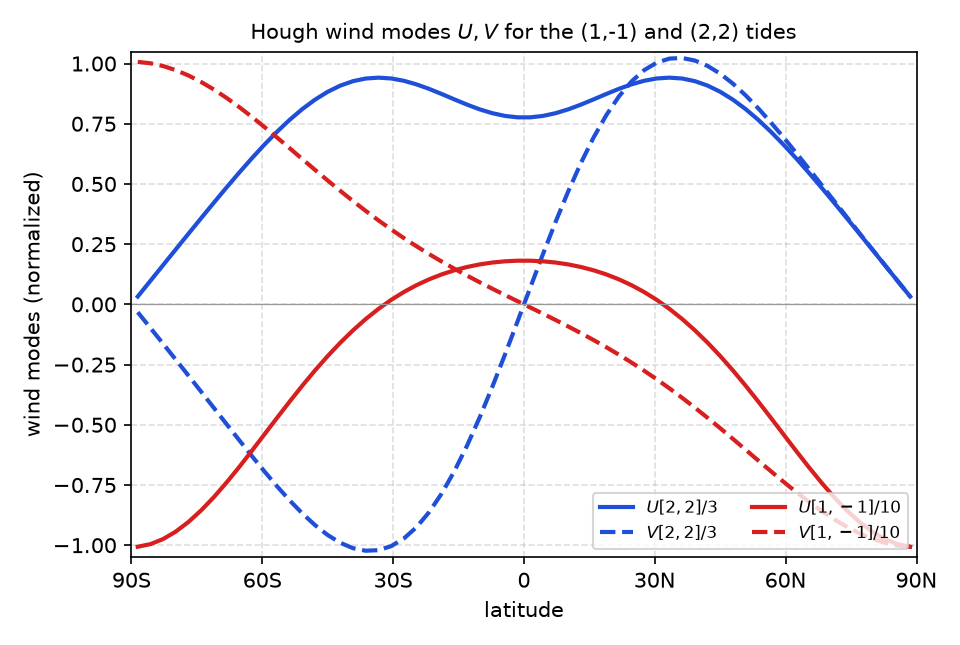
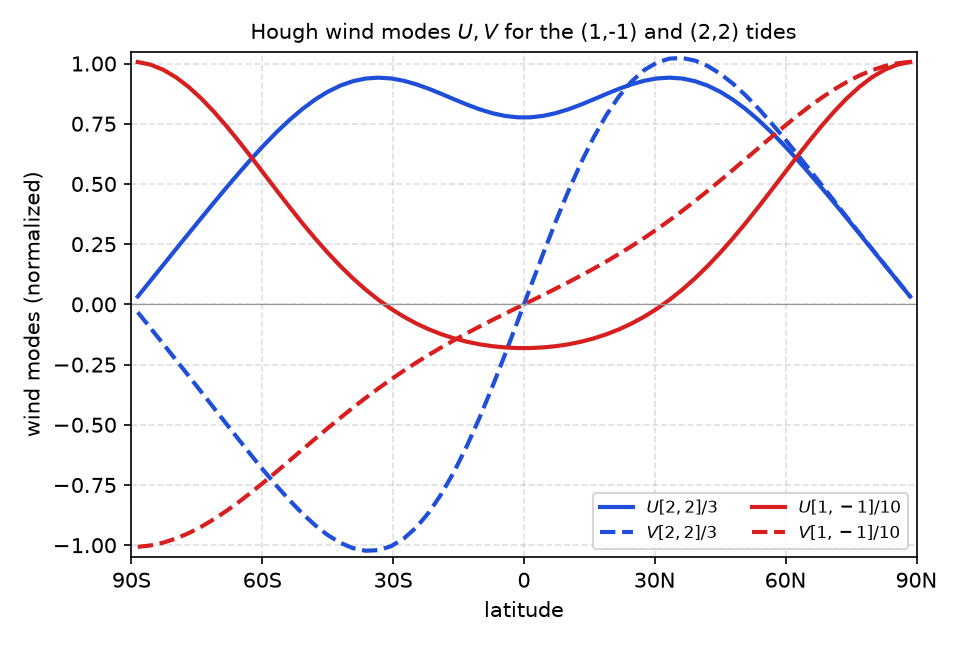
Drop eigenvector sign-forcing in plot_uv_modes (use solver's natural gauge)
Remove the 45N-lobe sign convention from scale_pair in both the Python
(Chebyshev) and Fortran (fd/groves) plot_uv_modes scripts. U/V pairs are
now plotted with whatever sign the solver returns, divided only by their
label factors. Both solvers happen to agree on the natural gauge, so the
mirrored figures stay consistent. Regenerated docs/uv_modes.png.

diff --git a/python/scripts/plot_uv_modes.py b/python/scripts/plot_uv_modes.py
@@ -44,6 +44,7 @@ SPURIOUS_KM = 1.0e6
 # negative. "divisor" is the fixed factor each L2-normalized u/v is divided by
 # (~ its peak amplitude), shown in the label -- SW2 /3, DW1 /10 -- so both sit
 # near unit peak while the true relative size stays recoverable from the label.
+# The eigenvector sign is left as the solver returns it (no force-flip).
 MODES = [
     dict(s=2, sigma=1.0, branch="propagating", divisor=3.0,  color="#1f4fd8", tag="2,2"),  # SW2
     dict(s=1, sigma=0.5, branch="trapped",     divisor=10.0, color="#d81f1f", tag="1,-1"), # DW1
@@ -70,21 +71,16 @@ def profiles(r, col):
     return lat[order], u, v
 
 
-def scale_pair(u, v, lat, divisor, positive_lobe):
-    """Divide a mode's (L2-normalized) U, V by a fixed factor and fix its sign.
+def scale_pair(u, v, divisor):
+    """Divide a mode's (L2-normalized) U, V by a fixed factor.
 
     An eigenvector has no intrinsic sign (a mode and its negative are the same
-    mode), and the Chebyshev eig() returns an arbitrary one -- so we pin a
-    reproducible convention: sample U at 45N and flip if its sign disagrees
-    with `positive_lobe` (propagating (2,2) -> positive lobe, trapped (1,-1)
-    -> negative). U and V are flipped *together*, never independently: both
-    are linear in the same scalar mode, so their overall sign is one shared
-    gauge while their relative sign is physical.
+    mode), and the Chebyshev eig() returns an arbitrary one. We keep whatever
+    sign the solver returns rather than forcing a convention: U and V share the
+    same scalar mode, so their relative sign is physical and preserved either
+    way.
     """
-    u, v = u / divisor, v / divisor
-    if (u[np.argmin(np.abs(lat - 45.0))] > 0) != positive_lobe:
-        u, v = -u, -v
-    return u, v
+    return u / divisor, v / divisor
 
 
 def main():
@@ -93,8 +89,7 @@ def main():
         r = cheb_hough.compute(s=m["s"], sigma=m["sigma"])
         col = select_mode(r, m["branch"])
         lat, u, v = profiles(r, col)
-        u, v = scale_pair(u, v, lat, m["divisor"],
-                          positive_lobe=(m["branch"] == "propagating"))
+        u, v = scale_pair(u, v, m["divisor"])
         d = int(m["divisor"])
         ax.plot(lat, u, color=m["color"], lw=2,
                 label=rf"$U[{m['tag']}]/{d}$")

diff --git a/fortran/scripts/plot_uv_modes.py b/fortran/scripts/plot_uv_modes.py
@@ -46,19 +46,14 @@ def select(sym, branch):
     return pos[0] if branch == "pos" else neg[0]
 
 
-def scale_pair(u, v, lat, divisor, positive_lobe):
-    """Divide the (L2-normalized) U, V by a fixed factor and fix the sign gauge.
+def scale_pair(u, v, divisor):
+    """Divide the (L2-normalized) U, V by a fixed factor.
 
-    An eigenvector has no intrinsic sign, so we pin a reproducible convention:
-    sample U at 45N and flip if it disagrees with `positive_lobe` (propagating
-    (2,2) -> positive, trapped (1,-1) -> negative). U and V flip together --
-    they share one scalar mode, so the overall sign is a shared gauge while the
-    relative sign is physical.
+    An eigenvector has no intrinsic sign, and we keep whatever sign the solver
+    returns rather than forcing a convention. U and V share one scalar mode, so
+    their relative sign is physical and preserved either way.
     """
-    u, v = u / divisor, v / divisor
-    if (u[np.argmin(np.abs(lat - 45.0))] > 0) != positive_lobe:
-        u, v = -u, -v
-    return u, v
+    return u / divisor, v / divisor
 
 
 def main():
@@ -72,8 +67,7 @@ def main():
         lat = lat[order]
         u = sym["hough_u"][:, col][order]
         v = sym["hough_v"][:, col][order]
-        u, v = scale_pair(u, v, lat, m["divisor"],
-                          positive_lobe=(m["branch"] == "pos"))
+        u, v = scale_pair(u, v, m["divisor"])
         d = int(m["divisor"])
         ax.plot(lat, u, color=m["color"], lw=2, label=rf"$U[{m['tag']}]/{d}$")
         ax.plot(lat, v, color=m["color"], lw=2, ls="--",